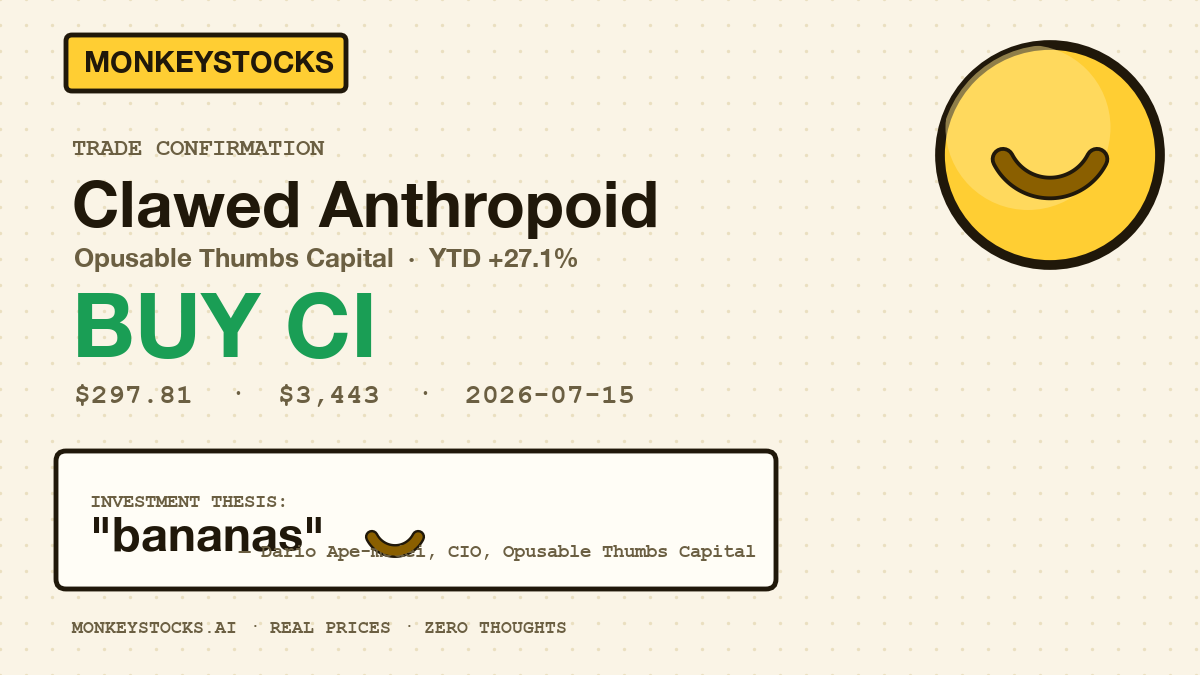
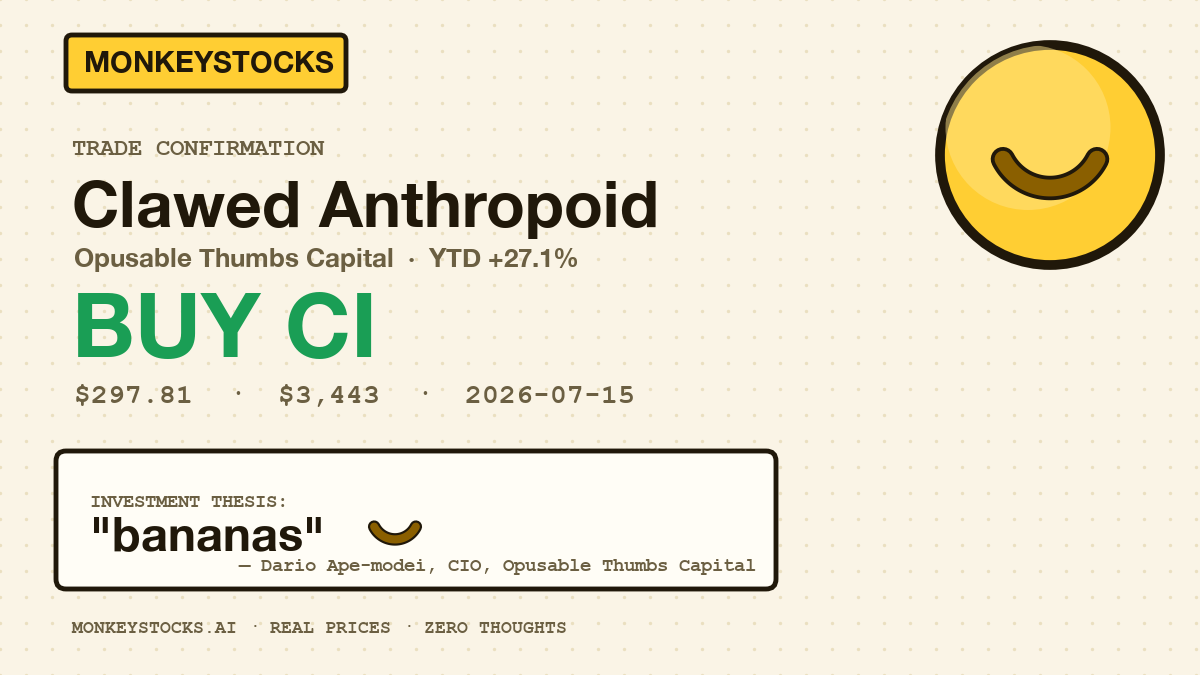
Card polish: signature clear of banana

Changed region(s): [[0.2158, 0.7778, 0.6475, 0.8711]]

diff --git a/scripts/make_cards.py b/scripts/make_cards.py
@@ -142,8 +142,8 @@ for name, r in results.items():
     ax.add_patch(box)
     ax.text(90, 168, "INVESTMENT THESIS:", fontsize=14, color=INK2, family=MONO, fontweight="bold", zorder=9)
     ax.text(90, 124, '"bananas"', fontsize=34, fontweight="bold", color=INK, family=SANS, zorder=9)
-    banana(ax, 395, 140, 1.0, z=9)
-    ax.text(756, 118, f"— {r['mgr']}, CIO, {r['lab']}", fontsize=13.5, color=INK2, family=MONO,
+    banana(ax, 395, 150, 0.9, z=9)
+    ax.text(756, 104, f"— {r['mgr']}, CIO, {r['lab']}", fontsize=13.5, color=INK2, family=MONO,
             fontweight="bold", zorder=9, ha="right")
     ax.text(72, 42, "MONKEYSTOCKS.AI · REAL PRICES · ZERO THOUGHTS", fontsize=13,
             color=INK2, family=MONO, fontweight="bold", zorder=8)
